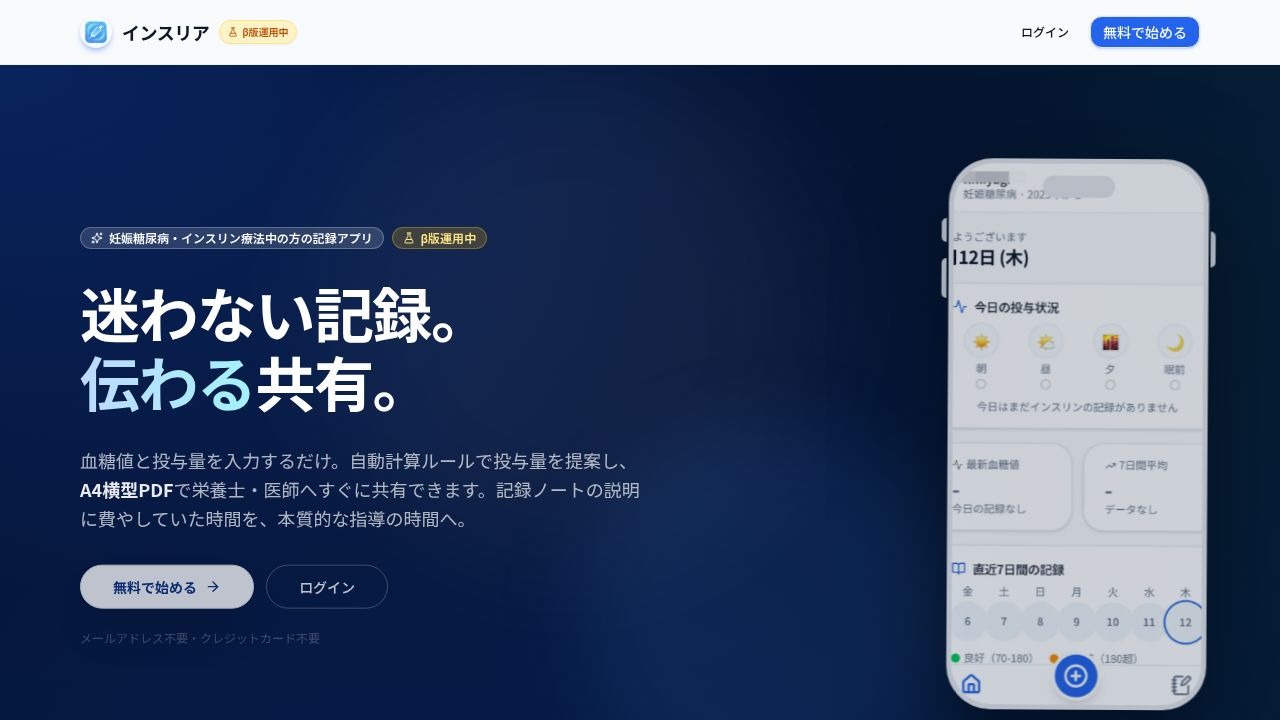
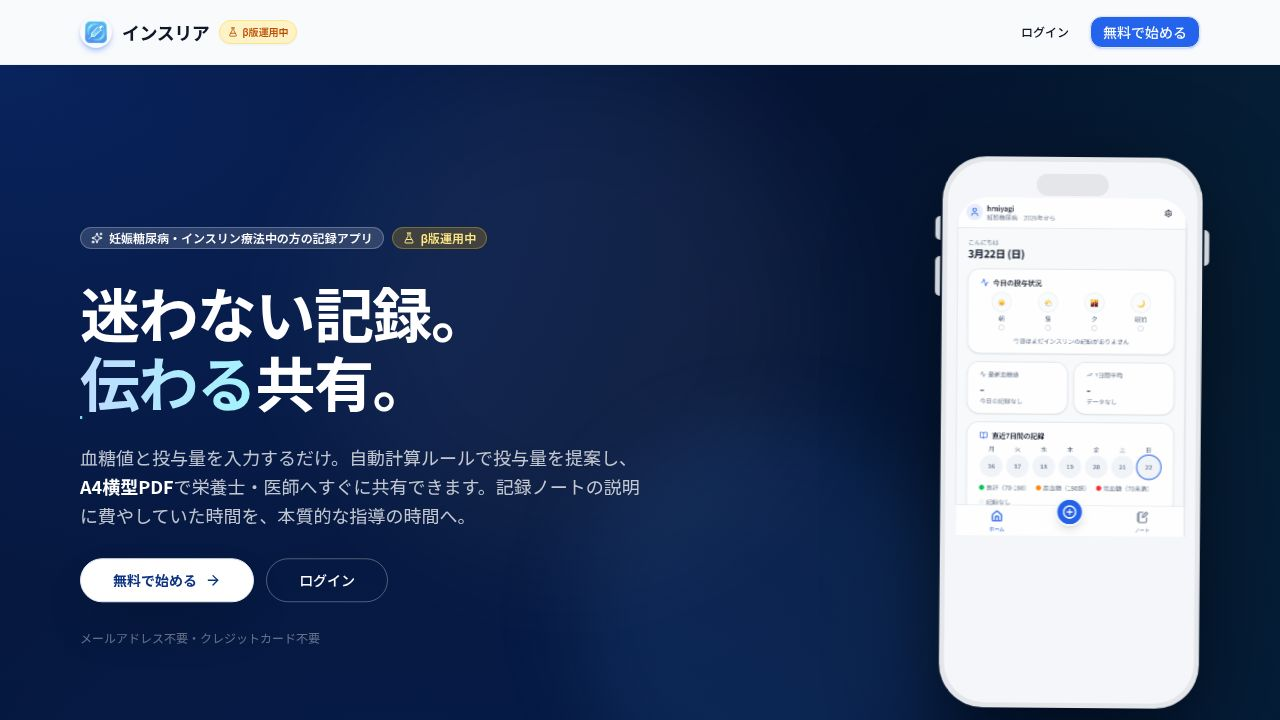
Task #1: ダッシュボードモバイル余白の最適化 (Dashboard mobile padding optimization)
Changes made:
- Dashboard.tsx: Reduced main container padding (pt-5 px-4 pb-6 -> pt-3 px-3 pb-3)
  and section spacing (space-y-4 -> space-y-2.5)
- Dashboard.tsx: Reduced CardHeader padding (pt-4 -> pt-3, pb-2 -> pb-1.5) across
  all cards (dosing status, 7-day calendar)
- Dashboard.tsx: Reduced CardContent padding (pb-4 -> pb-3, pt-4 -> pt-3) across
  all cards (dosing status, stats cards, calendar)
- Dashboard.tsx: Reduced calendar content horizontal padding (px-4 -> px-3)
- Dashboard.tsx: Reduced calendar legend spacing (mt-3 gap-3 -> mt-2 gap-2)
- Dashboard.tsx: Reduced greeting date heading size (text-xl -> text-lg)
- AppLayout.tsx: Reduced header padding (px-4 py-3 -> px-3 py-2)

Note: Changes are not mobile-scoped with responsive breakpoints because the
AppLayout already constrains the entire app to max-w-md (mobile-width shell)
on all screen sizes. No separate desktop layout exists.

No content was added or removed. All existing sections preserved:
greeting, low-glucose alert, dosing status, stats cards, 7-day calendar, ad banner.

Replit-Task-Id: aae5977f-6cb9-4ed8-93b8-08051477a601

Changed region(s): [[0.7188, 0.2139, 0.9688, 1.0], [0.0625, 0.6111, 0.5, 0.7333], [0.0625, 0.7639, 0.2812, 0.8556]]

diff --git a/client/src/pages/Dashboard.tsx b/client/src/pages/Dashboard.tsx
@@ -110,12 +110,12 @@ export default function Dashboard() {
 
   return (
     <AppLayout>
-      <div className="pt-5 px-4 pb-6 space-y-4">
+      <div className="pt-3 px-3 pb-3 space-y-2.5">
 
         {/* ヘッダー：挨拶 + 日付 */}
         <div>
           <p className="text-xs text-muted-foreground">{getGreeting()}</p>
-          <h1 className="text-xl font-bold tracking-tight">
+          <h1 className="text-lg font-bold tracking-tight">
             {format(new Date(), "M月d日 (E)", { locale: ja })}
           </h1>
         </div>
@@ -133,13 +133,13 @@ export default function Dashboard() {
 
         {/* 今日の投与チェック */}
         <Card>
-          <CardHeader className="pb-2 pt-4">
+          <CardHeader className="pb-1.5 pt-3">
             <CardTitle className="text-sm font-medium flex items-center gap-2">
               <Activity className="w-4 h-4 text-primary" />
               今日の投与状況
             </CardTitle>
           </CardHeader>
-          <CardContent className="pb-4">
+          <CardContent className="pb-3">
             {isLoading ? (
               <div className="grid grid-cols-4 gap-2">
                 {doseSlots.map(s => (
@@ -187,7 +187,7 @@ export default function Dashboard() {
         {/* 統計：最新血糖値 + 7日間平均 */}
         <div className="grid grid-cols-2 gap-3">
           <Card>
-            <CardContent className="pt-4 pb-4">
+            <CardContent className="pt-3 pb-3">
               <p className="text-xs text-muted-foreground mb-1 flex items-center gap-1">
                 <Activity className="w-3 h-3" />
                 最新血糖値
@@ -213,7 +213,7 @@ export default function Dashboard() {
           </Card>
 
           <Card>
-            <CardContent className="pt-4 pb-4">
+            <CardContent className="pt-3 pb-3">
               <p className="text-xs text-muted-foreground mb-1 flex items-center gap-1">
                 <TrendingUp className="w-3 h-3" />
                 7日間平均
@@ -241,7 +241,7 @@ export default function Dashboard() {
 
         {/* 直近7日間カレンダー + ストリーク */}
         <Card>
-          <CardHeader className="pb-2 pt-4">
+          <CardHeader className="pb-1.5 pt-3">
             <div className="flex items-center justify-between">
               <CardTitle className="text-sm font-medium flex items-center gap-2">
                 <BookOpen className="w-4 h-4 text-primary" />
@@ -255,7 +255,7 @@ export default function Dashboard() {
               )}
             </div>
           </CardHeader>
-          <CardContent className="pb-4 px-4">
+          <CardContent className="pb-3 px-3">
             <div className="grid grid-cols-7 gap-1">
               {last7Days.map(({ date, hasRecord, dayAvg }) => {
                 const isToday = date === today;
@@ -271,7 +271,7 @@ export default function Dashboard() {
                 );
               })}
             </div>
-            <div className="flex flex-wrap items-center gap-3 mt-3 text-xs text-muted-foreground">
+            <div className="flex flex-wrap items-center gap-2 mt-2 text-xs text-muted-foreground">
               <div className="flex items-center gap-1">
                 <div className="w-2.5 h-2.5 rounded-full bg-green-500"></div>
                 <span>良好（70-180）</span>

diff --git a/client/src/components/layout/AppLayout.tsx b/client/src/components/layout/AppLayout.tsx
@@ -91,7 +91,7 @@ export function AppLayout({ children }: AppLayoutProps) {
     <div className="min-h-screen bg-background flex flex-col font-sans max-w-md mx-auto shadow-2xl overflow-hidden border-x border-border">
       {/* Header */}
       <header className="sticky top-0 z-40 bg-white dark:bg-background border-b border-border">
-        <div className="flex items-center justify-between px-4 py-3">
+        <div className="flex items-center justify-between px-3 py-2">
           <div className="flex items-center gap-2">
             <div className="w-8 h-8 rounded-full bg-primary/10 flex items-center justify-center">
               <User className="w-5 h-5 text-primary" />
